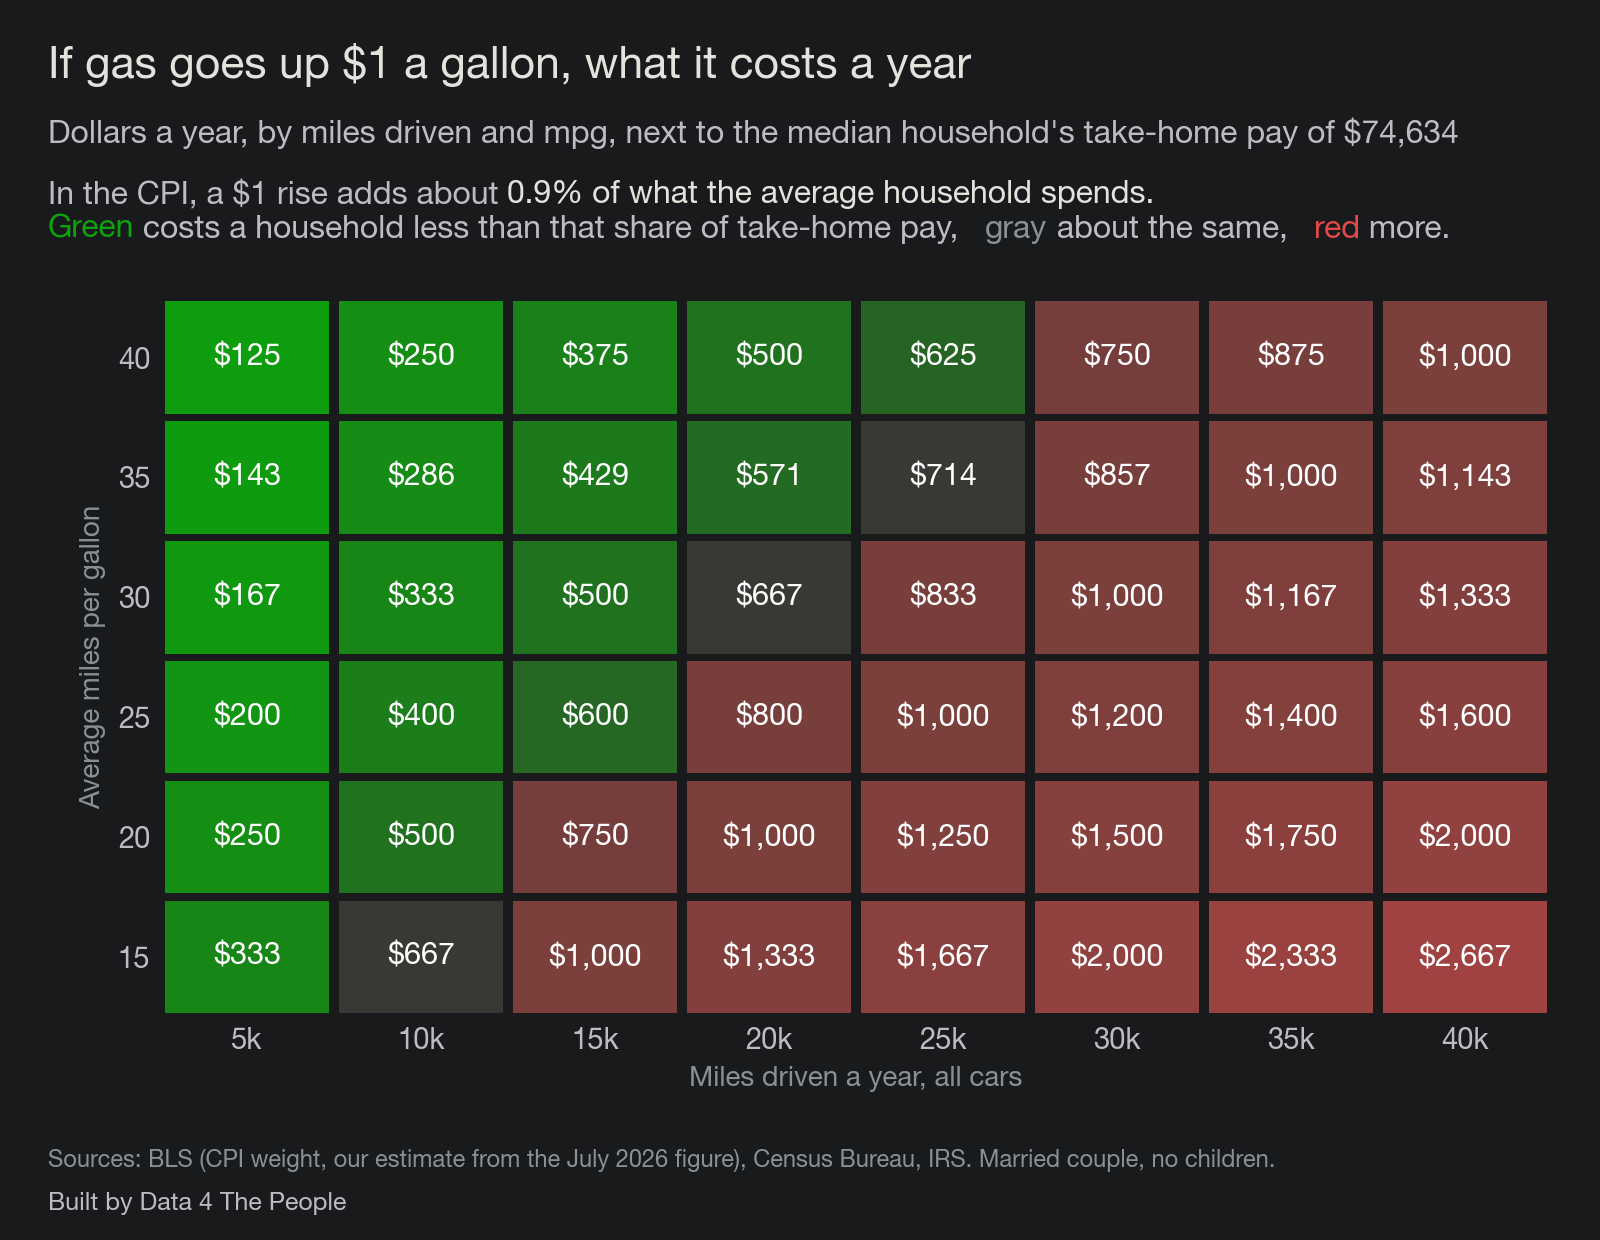
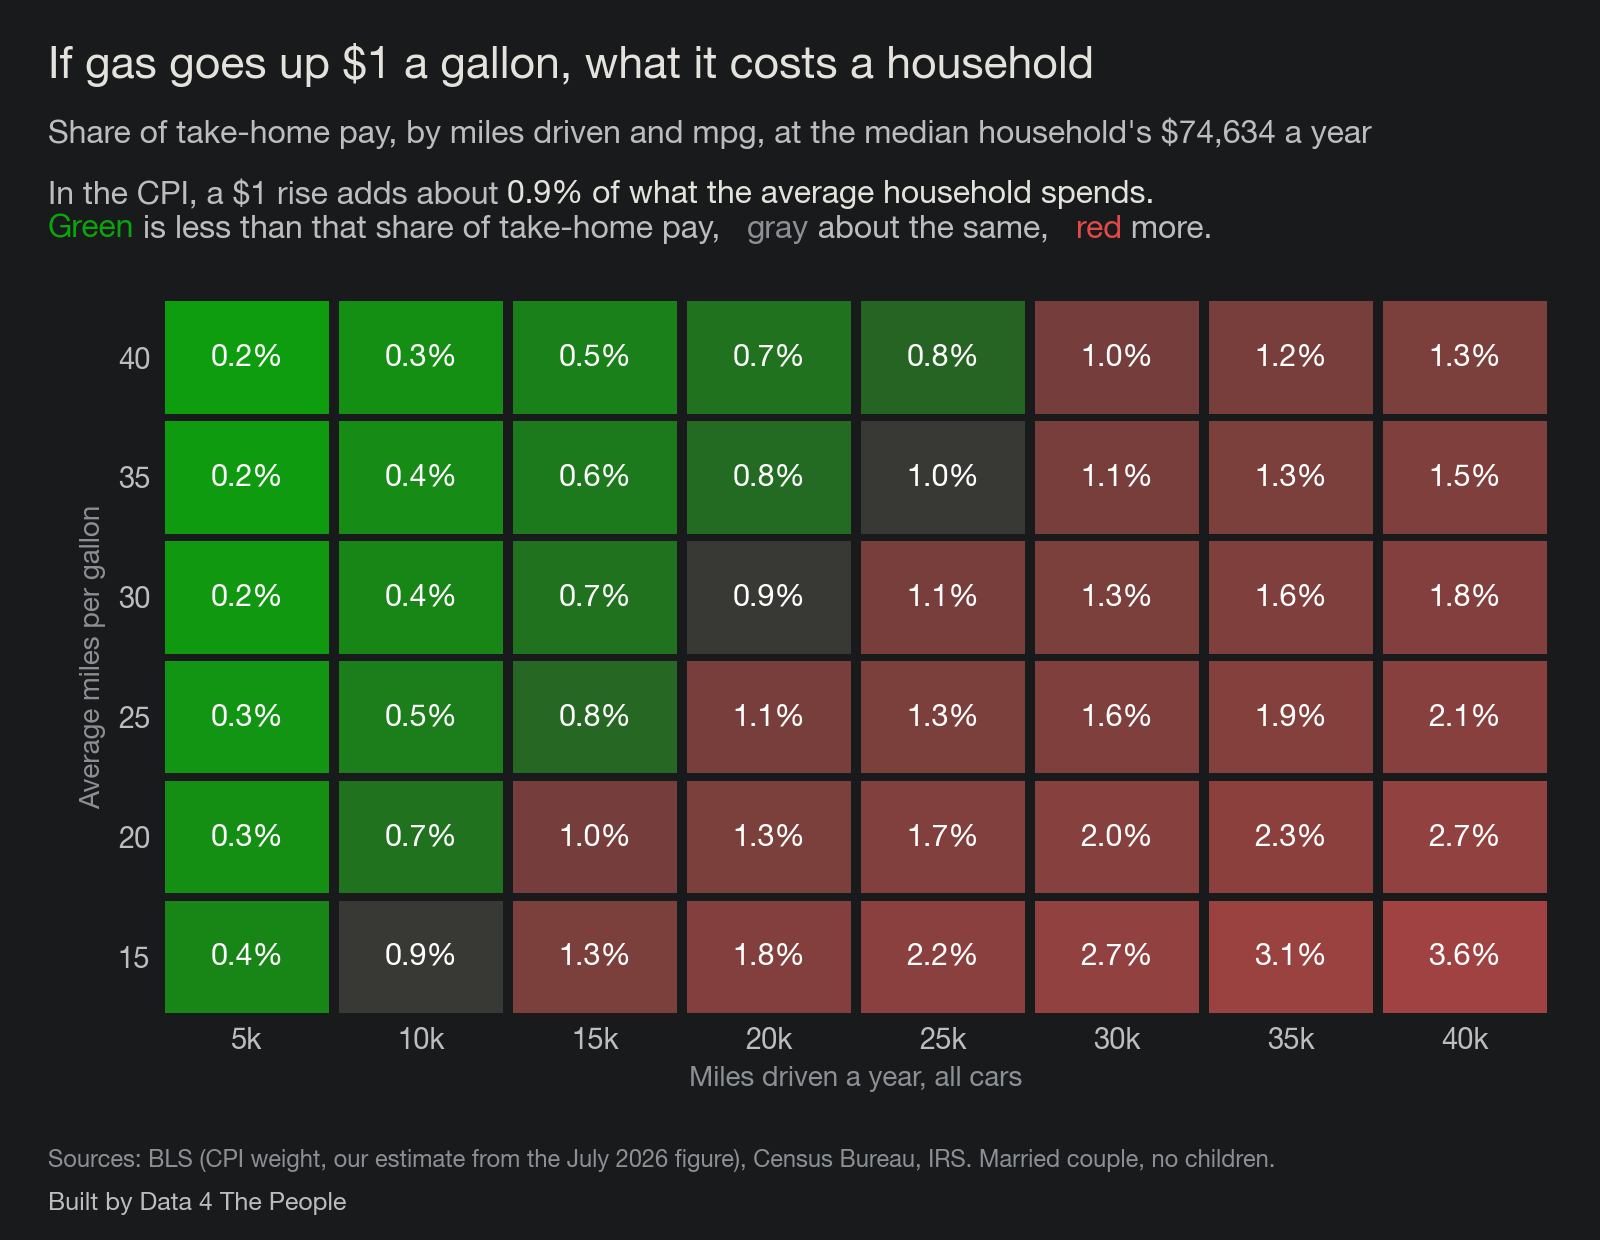
gasoline-cost: matrix cells show share of take-home pay

diff --git a/dist/embed.html b/dist/embed.html
@@ -420,9 +420,9 @@ function drawMatrix(){
   var mi = nearestIdx(MX_MILES, h.miles), gi = nearestIdx(MX_MPG, h.mpg);
   var whose = h.name.toLowerCase() === "your household" ? "your" : "the " + h.name.toLowerCase() + "'s";
   var html = "<h2>If gas goes up $1 a gallon</h2>" +
-    "<p class='intro'>What a $1 rise costs a year, for any mix of miles and mpg, next to " + esc(whose) + " take-home pay of " + money(h.at) +
-    ". In the CPI, a $1 rise adds about <b>" + cs.toFixed(1) + "% of what the average household spends</b>. Colors show whether it costs this household more or less than that share.</p>" +
-    "<div class='legend'><span><b style='color:var(--mGood)'>Green</b> under " + cs.toFixed(1) + "% of take-home pay</span><span><b style='color:var(--muted)'>Gray</b> about " + cs.toFixed(1) + "%</span><span><b style='color:var(--mBad)'>Red</b> over " + cs.toFixed(1) + "%</span><span><b>Outlined</b>: closest to this household</span></div>" +
+    "<p class='intro'>What a $1 rise costs, as a share of " + esc(whose) + " take-home pay of " + money(h.at) +
+    " a year, for any mix of miles and mpg. In the CPI, a $1 rise is about <b>" + cs.toFixed(1) + "% of what the average household spends</b>.</p>" +
+    "<div class='legend'><span><b style='color:var(--mGood)'>Green</b> under " + cs.toFixed(1) + "%</span><span><b style='color:var(--muted)'>Gray</b> about " + cs.toFixed(1) + "%</span><span><b style='color:var(--mBad)'>Red</b> over " + cs.toFixed(1) + "%</span><span><b>Outlined</b>: closest to this household</span></div>" +
     "<div class='mx' role='table' aria-label='Points of after-tax income added by each $1 a gallon'><div class='h'>mpg</div>";
   MX_MILES.forEach(function(m){ html += "<div class='h'>" + (m / 1000) + "k</div>"; });
   MX_MPG.forEach(function(g, i){
@@ -436,9 +436,9 @@ function drawMatrix(){
       var word = Math.abs(v - cs) <= MX_BAND ? "about the same as" : v < cs ? "less than" : "more than";
       var gal = m / g;
       html += "<div class='c" + (i === gi && j === mi ? " me" : "") + "' style='background:rgb(" + c.join(",") + ");color:" + ink + "' data-tip='" +
-        esc(m.toLocaleString("en-US") + " miles a year at " + g + " mpg is " + Math.round(gal).toLocaleString("en-US") + " gallons of gas. If the price goes up $1 a gallon, that costs " +
-            money(gal) + " more a year, or " + v.toFixed(1) + "% of take-home pay. That is " + word + " the " + cs.toFixed(1) + "% the CPI puts on the average household.") +
-        "'>" + money(gal) + "</div>";
+        esc(m.toLocaleString("en-US") + " miles a year at " + g + " mpg is " + Math.round(gal).toLocaleString("en-US") + " gallons. A $1 rise costs " +
+            money(gal) + " more a year, which is " + v.toFixed(1) + "% of take-home pay, " + word + " the " + cs.toFixed(1) + "% the CPI puts on the average household.") +
+        "'>" + v.toFixed(1) + "%</div>";
     });
   });
   html += "</div><div class='axisl'>Miles driven a year, all cars</div>";

diff --git a/dist/index.html b/dist/index.html
@@ -420,9 +420,9 @@ function drawMatrix(){
   var mi = nearestIdx(MX_MILES, h.miles), gi = nearestIdx(MX_MPG, h.mpg);
   var whose = h.name.toLowerCase() === "your household" ? "your" : "the " + h.name.toLowerCase() + "'s";
   var html = "<h2>If gas goes up $1 a gallon</h2>" +
-    "<p class='intro'>What a $1 rise costs a year, for any mix of miles and mpg, next to " + esc(whose) + " take-home pay of " + money(h.at) +
-    ". In the CPI, a $1 rise adds about <b>" + cs.toFixed(1) + "% of what the average household spends</b>. Colors show whether it costs this household more or less than that share.</p>" +
-    "<div class='legend'><span><b style='color:var(--mGood)'>Green</b> under " + cs.toFixed(1) + "% of take-home pay</span><span><b style='color:var(--muted)'>Gray</b> about " + cs.toFixed(1) + "%</span><span><b style='color:var(--mBad)'>Red</b> over " + cs.toFixed(1) + "%</span><span><b>Outlined</b>: closest to this household</span></div>" +
+    "<p class='intro'>What a $1 rise costs, as a share of " + esc(whose) + " take-home pay of " + money(h.at) +
+    " a year, for any mix of miles and mpg. In the CPI, a $1 rise is about <b>" + cs.toFixed(1) + "% of what the average household spends</b>.</p>" +
+    "<div class='legend'><span><b style='color:var(--mGood)'>Green</b> under " + cs.toFixed(1) + "%</span><span><b style='color:var(--muted)'>Gray</b> about " + cs.toFixed(1) + "%</span><span><b style='color:var(--mBad)'>Red</b> over " + cs.toFixed(1) + "%</span><span><b>Outlined</b>: closest to this household</span></div>" +
     "<div class='mx' role='table' aria-label='Points of after-tax income added by each $1 a gallon'><div class='h'>mpg</div>";
   MX_MILES.forEach(function(m){ html += "<div class='h'>" + (m / 1000) + "k</div>"; });
   MX_MPG.forEach(function(g, i){
@@ -436,9 +436,9 @@ function drawMatrix(){
       var word = Math.abs(v - cs) <= MX_BAND ? "about the same as" : v < cs ? "less than" : "more than";
       var gal = m / g;
       html += "<div class='c" + (i === gi && j === mi ? " me" : "") + "' style='background:rgb(" + c.join(",") + ");color:" + ink + "' data-tip='" +
-        esc(m.toLocaleString("en-US") + " miles a year at " + g + " mpg is " + Math.round(gal).toLocaleString("en-US") + " gallons of gas. If the price goes up $1 a gallon, that costs " +
-            money(gal) + " more a year, or " + v.toFixed(1) + "% of take-home pay. That is " + word + " the " + cs.toFixed(1) + "% the CPI puts on the average household.") +
-        "'>" + money(gal) + "</div>";
+        esc(m.toLocaleString("en-US") + " miles a year at " + g + " mpg is " + Math.round(gal).toLocaleString("en-US") + " gallons. A $1 rise costs " +
+            money(gal) + " more a year, which is " + v.toFixed(1) + "% of take-home pay, " + word + " the " + cs.toFixed(1) + "% the CPI puts on the average household.") +
+        "'>" + v.toFixed(1) + "%</div>";
     });
   });
   html += "</div><div class='axisl'>Miles driven a year, all cars</div>";

diff --git a/src/template.html b/src/template.html
@@ -420,9 +420,9 @@ function drawMatrix(){
   var mi = nearestIdx(MX_MILES, h.miles), gi = nearestIdx(MX_MPG, h.mpg);
   var whose = h.name.toLowerCase() === "your household" ? "your" : "the " + h.name.toLowerCase() + "'s";
   var html = "<h2>If gas goes up $1 a gallon</h2>" +
-    "<p class='intro'>What a $1 rise costs a year, for any mix of miles and mpg, next to " + esc(whose) + " take-home pay of " + money(h.at) +
-    ". In the CPI, a $1 rise adds about <b>" + cs.toFixed(1) + "% of what the average household spends</b>. Colors show whether it costs this household more or less than that share.</p>" +
-    "<div class='legend'><span><b style='color:var(--mGood)'>Green</b> under " + cs.toFixed(1) + "% of take-home pay</span><span><b style='color:var(--muted)'>Gray</b> about " + cs.toFixed(1) + "%</span><span><b style='color:var(--mBad)'>Red</b> over " + cs.toFixed(1) + "%</span><span><b>Outlined</b>: closest to this household</span></div>" +
+    "<p class='intro'>What a $1 rise costs, as a share of " + esc(whose) + " take-home pay of " + money(h.at) +
+    " a year, for any mix of miles and mpg. In the CPI, a $1 rise is about <b>" + cs.toFixed(1) + "% of what the average household spends</b>.</p>" +
+    "<div class='legend'><span><b style='color:var(--mGood)'>Green</b> under " + cs.toFixed(1) + "%</span><span><b style='color:var(--muted)'>Gray</b> about " + cs.toFixed(1) + "%</span><span><b style='color:var(--mBad)'>Red</b> over " + cs.toFixed(1) + "%</span><span><b>Outlined</b>: closest to this household</span></div>" +
     "<div class='mx' role='table' aria-label='Points of after-tax income added by each $1 a gallon'><div class='h'>mpg</div>";
   MX_MILES.forEach(function(m){ html += "<div class='h'>" + (m / 1000) + "k</div>"; });
   MX_MPG.forEach(function(g, i){
@@ -436,9 +436,9 @@ function drawMatrix(){
       var word = Math.abs(v - cs) <= MX_BAND ? "about the same as" : v < cs ? "less than" : "more than";
       var gal = m / g;
       html += "<div class='c" + (i === gi && j === mi ? " me" : "") + "' style='background:rgb(" + c.join(",") + ");color:" + ink + "' data-tip='" +
-        esc(m.toLocaleString("en-US") + " miles a year at " + g + " mpg is " + Math.round(gal).toLocaleString("en-US") + " gallons of gas. If the price goes up $1 a gallon, that costs " +
-            money(gal) + " more a year, or " + v.toFixed(1) + "% of take-home pay. That is " + word + " the " + cs.toFixed(1) + "% the CPI puts on the average household.") +
-        "'>" + money(gal) + "</div>";
+        esc(m.toLocaleString("en-US") + " miles a year at " + g + " mpg is " + Math.round(gal).toLocaleString("en-US") + " gallons. A $1 rise costs " +
+            money(gal) + " more a year, which is " + v.toFixed(1) + "% of take-home pay, " + word + " the " + cs.toFixed(1) + "% the CPI puts on the average household.") +
+        "'>" + v.toFixed(1) + "%</div>";
     });
   });
   html += "</div><div class='axisl'>Miles driven a year, all cars</div>";

diff --git a/src/charts.py b/src/charts.py
@@ -165,7 +165,7 @@ def draw_matrix(ax, inc, cs, fs=11):
             v = 100 * mi / g / inc
             col = cell_color(v, cs, inc)
             ax.add_patch(plt.Rectangle((j + 0.03, i + 0.03), 0.94, 0.94, color=col, lw=0))
-            ax.text(j + 0.5, i + 0.5, f'\\${mi / g:,.0f}', ha='center', va='center', fontsize=fs, fontweight='bold',
+            ax.text(j + 0.5, i + 0.5, f'{v:.1f}%', ha='center', va='center', fontsize=fs, fontweight='bold',
                     color='#0b0b0b' if lum(col) > 0.28 else '#ffffff')
     ax.set_xlim(0, len(MILES)); ax.set_ylim(len(MPGS), 0)
     ax.set_xticks([j + 0.5 for j in range(len(MILES))], [f'{mi // 1000}k' for mi in MILES])
@@ -176,7 +176,7 @@ def draw_matrix(ax, inc, cs, fs=11):
 def legend_line(f, y, cs, gap=0.028):
     colored_line(f, 0.03, y, [('In the CPI, a $1 rise adds about ', INK2, False),
                               (f'{cs:.1f}% of what the average household spends.', INK, True)])
-    colored_line(f, 0.03, y - gap, [('Green', GREEN, True), (' costs a household less than that share of take-home pay,   ', INK2, False),
+    colored_line(f, 0.03, y - gap, [('Green', GREEN, True), (' is less than that share of take-home pay,   ', INK2, False),
                                     ('gray', '#8C9094', True), (' about the same,   ', INK2, False), ('red', RED, True), (' more.', INK2, False)])
 
 
@@ -190,8 +190,8 @@ def chart_matrix(m):
     ax.set_xlabel('Miles driven a year, all cars', color=MUTED, fontsize=10)
     ax.set_ylabel('Average miles per gallon', color=MUTED, fontsize=10)
     f.subplots_adjust(left=0.1, right=0.97, top=0.76, bottom=0.18)
-    title(f, 'If gas goes up $1 a gallon, what it costs a year',
-          f'Dollars a year, by miles driven and mpg, next to the median household\'s take-home pay of \\${inc:,.0f}')
+    title(f, 'If gas goes up $1 a gallon, what it costs a household',
+          f'Share of take-home pay, by miles driven and mpg, at the median household\'s \\${inc:,.0f} a year')
     legend_line(f, 0.855, cs)
     foot(f, 'Sources: BLS (CPI weight, our estimate from the July 2026 figure), Census Bureau, IRS. Married couple, no children.')
     f.savefig(OUT / '04-slope-matrix.png', facecolor=BG); plt.close(f)
@@ -218,7 +218,7 @@ def chart_matrix_income(m):
     axes[-1].set_xlabel('Miles driven a year, all cars', color=MUTED, fontsize=10)
     f.subplots_adjust(left=0.1, right=0.97, top=0.885, bottom=0.075, hspace=0.32)
     f.text(0.03, 0.985, 'If gas goes up $1 a gallon: the same cost, three different incomes', fontsize=16, fontweight='bold', color=INK, va='top')
-    f.text(0.03, 0.962, 'Dollars a year, by miles driven and mpg. The cost is the same in every panel; what it takes out of a paycheck is not.', fontsize=11.5, color=INK2, va='top')
+    f.text(0.03, 0.962, 'Share of take-home pay, by miles driven and mpg. The dollar cost is the same in every panel; the share of a paycheck is not.', fontsize=11.5, color=INK2, va='top')
     legend_line(f, 0.944, cs, gap=0.013)
     f.text(0.03, 0.03, 'Sources: BLS (CPI weight, our estimate from the July 2026 figure), Census Bureau (2025 income percentiles), IRS.\nMarried couple, no children, federal income and payroll taxes.', fontsize=8.5, color=MUTED, va='bottom')
     f.text(0.03, 0.012, CREDIT, fontsize=9, color=INK2, va='bottom', fontweight='bold')
